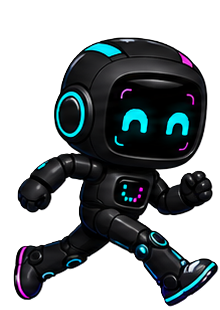
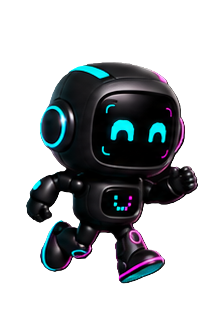
feat: add ImageCache system and implement character and enemy animations

diff --git a/models/image.hub.js b/models/image.hub.js
@@ -1,0 +1,37 @@
+export class ImageHub {
+    images_walking = [
+        "assets/img/character/walk/walk0.png",
+        "assets/img/character/walk/walk1.png",
+        "assets/img/character/walk/walk2.png",
+        "assets/img/character/walk/walk3.png",
+        "assets/img/character/walk/walk4.png",
+        "assets/img/character/walk/walk5.png",
+        "assets/img/character/walk/walk6.png",
+        "assets/img/character/walk/walk7.png",
+        "assets/img/character/walk/walk8.png",
+    ];
+
+    images_hard_drive = [
+        "assets/img/monster/hardDrive0.png",
+        "assets/img/monster/hardDrive1.png",
+        "assets/img/monster/hardDrive2.png",
+        "assets/img/monster/hardDrive3.png",
+        "assets/img/monster/hardDrive4.png",
+        "assets/img/monster/hardDrive5.png",
+    ];
+
+    images_mouse_drone = [
+        "assets/img/monster/mouseDrone0.png",
+        "assets/img/monster/mouseDrone1.png",
+        "assets/img/monster/mouseDrone2.png",
+        "assets/img/monster/mouseDrone3.png",
+        "assets/img/monster/mouseDrone4.png",
+        "assets/img/monster/mouseDrone5.png",
+    ];
+    images_boss_walk = [
+        "assets/img/boss/bossWalk0.png",
+        "assets/img/boss/bossWalk1.png",
+        "assets/img/boss/bossWalk2.png",
+        "assets/img/boss/bossWalk3.png",
+    ];
+}

diff --git a/models/boss.class.js b/models/boss.class.js
@@ -1,14 +1,40 @@
 import { MovableObject } from "./movable-objects.class.js";
+import { ImageHub } from "./image.hub.js";
 
 export class Boss extends MovableObject {
     height = 200;
     width = 150;
 
+    speed = 3;
+
+    imageHub = new ImageHub();
+    currentImage = 0;
+
     constructor() {
         super();
         this.loadImage("assets/img/boss/bossTransformation5.png");
+        this.loadImages(this.imageHub.images_boss_walk);
+        this.animate();
 
-        this.x = 200 + Math.random() * 500;
+        this.x = 400 + Math.random() * 800;
+        this.speed = 0.15 + Math.random() * 0.25;
         this.y = 235;
+    }
+
+    animate() {
+        this.moveLeft();
+
+        setInterval(() => {
+            let i = this.currentImage % this.imageHub.images_boss_walk.length;
+            let path = this.imageHub.images_boss_walk[i];
+            this.img = this.imageCache[path];
+            this.currentImage++;
+        }, 1000 / 12);
+    }
+
+    moveLeft(){
+        setInterval(() => {
+            this.x -= 0.15;
+        }, 1000 / 60);
     }
 }

diff --git a/models/hard-drive.class.js b/models/hard-drive.class.js
@@ -1,14 +1,40 @@
 import { MovableObject } from "./movable-objects.class.js";
+import { ImageHub } from "./image.hub.js";
 
 export class HardDrive extends MovableObject {
     width = 50;
     height = 80;
 
+    speed = 3;
+
+    imageHub = new ImageHub();
+    currentImage = 0;
+
     constructor() {
         super();
         this.loadImage("assets/img/monster/hardDrive0.png");
+        this.loadImages(this.imageHub.images_hard_drive);
+        this.animate();
 
-        this.x = 200 + Math.random() * 500;
+        this.x = 400 + Math.random() * 800;
+        this.speed = 0.15 + Math.random() * 0.25;
         this.y = 350;
+    }
+
+    animate() {
+        this.moveLeft();
+
+        setInterval(() => {
+            let i = this.currentImage % this.imageHub.images_hard_drive.length;
+            let path = this.imageHub.images_hard_drive[i];
+            this.img = this.imageCache[path];
+            this.currentImage++;
+        }, 1000 / 12);
+    }
+
+    moveLeft(){
+        setInterval(() => {
+            this.x -= 0.15;
+        }, 1000 / 60);
     }
 }

diff --git a/models/mouse-drone.class.js b/models/mouse-drone.class.js
@@ -1,14 +1,38 @@
 import { MovableObject } from "./movable-objects.class.js";
+import { ImageHub } from "./image.hub.js";
 
 export class MouseDrone extends MovableObject {
     height = 50;
     width = 50;
-    
+
+    imageHub = new ImageHub();
+    currentImage = 0;
+
     constructor() {
         super();
         this.loadImage("assets/img/monster/mouseDrone0.png");
+        this.loadImages(this.imageHub.images_mouse_drone);
+        this.animate();
 
-        this.x = 200 + Math.random() * 500;
+        this.x = 450 + Math.random() * 800;
+        this.speed = 0.15 + Math.random() * 0.25;
         this.y = 380;
+    }
+
+    animate() {
+        this.moveLeft();
+
+        setInterval(() => {
+            let i = this.currentImage % this.imageHub.images_mouse_drone.length;
+            let path = this.imageHub.images_mouse_drone[i];
+            this.img = this.imageCache[path];
+            this.currentImage++;
+        }, 1000 / 12);
+    }
+
+    moveLeft() {
+        setInterval(() => {
+            this.x -= 0.15;
+        }, 1000 / 60);
     }
 }

diff --git a/models/character.class.js b/models/character.class.js
@@ -1,9 +1,29 @@
 import { MovableObject } from "./movable-objects.class.js";
+import { ImageHub } from "./image.hub.js";
 
 export class Character extends MovableObject {
+    width = 100;
+    height = 130;
+    y = 300;
+    speed = 5;
+
+    imageHub = new ImageHub();
+    currentImage = 0;
+
     constructor() {
         super();
         this.loadImage("assets/img/character/walk/stehen.webp");
+        this.loadImages(this.imageHub.images_walking);
+        this.animate();
+    }
+
+    animate() {
+        setInterval(() => {
+            let i = this.currentImage % this.imageHub.images_walking.length;
+            let path = this.imageHub.images_walking[i];
+            this.img = this.imageCache[path];
+            this.currentImage++;
+        }, 1000 / 12);
     }
 
     jump() {}

diff --git a/models/movable-objects.class.js b/models/movable-objects.class.js
@@ -2,16 +2,31 @@ export class MovableObject {
     x = 120;
     y = 300;
     img;
+    imageCache = {};
     height = 130;
     width = 100;
+    speed= 0.15;
+    
     loadImage(path) {
         this.img = new Image();
         this.img.src = path;
+    }
+
+    loadImages(arr) {
+        arr.forEach((path) => {
+            let img = new Image();
+            img.src = path;
+            this.imageCache[path] = img;
+        });
     }
 
     moveRight() {
         console.log("moving right");
     }
 
-    moveLeft() {}
+    moveLeft() {
+        setInterval(() => {
+            this.x -= 0.15;
+        }, 1000 / 60);
+    }
 }

diff --git a/models/cloud.class.js b/models/cloud.class.js
@@ -10,5 +10,17 @@ export class Cloud extends MovableObject {
 
         this.x = Math.random() * 500;
         this.y = 50;
+
+        this.animate();
+    }
+
+    animate() {
+        this.moveLeft();
+    }
+
+    moveLeft(){
+        setInterval(() => {
+            this.x -= 0.15;
+        }, 1000 / 60);
     }
 }

diff --git a/style.css b/style.css
@@ -7,9 +7,6 @@ body {
 
 canvas {
     background-color: teal;
-    /* background-image: url("./assets/img/background/background.webp");
-    background-size: contain;
-    background-size: 100% 100%; */
 }
 
 h1,
